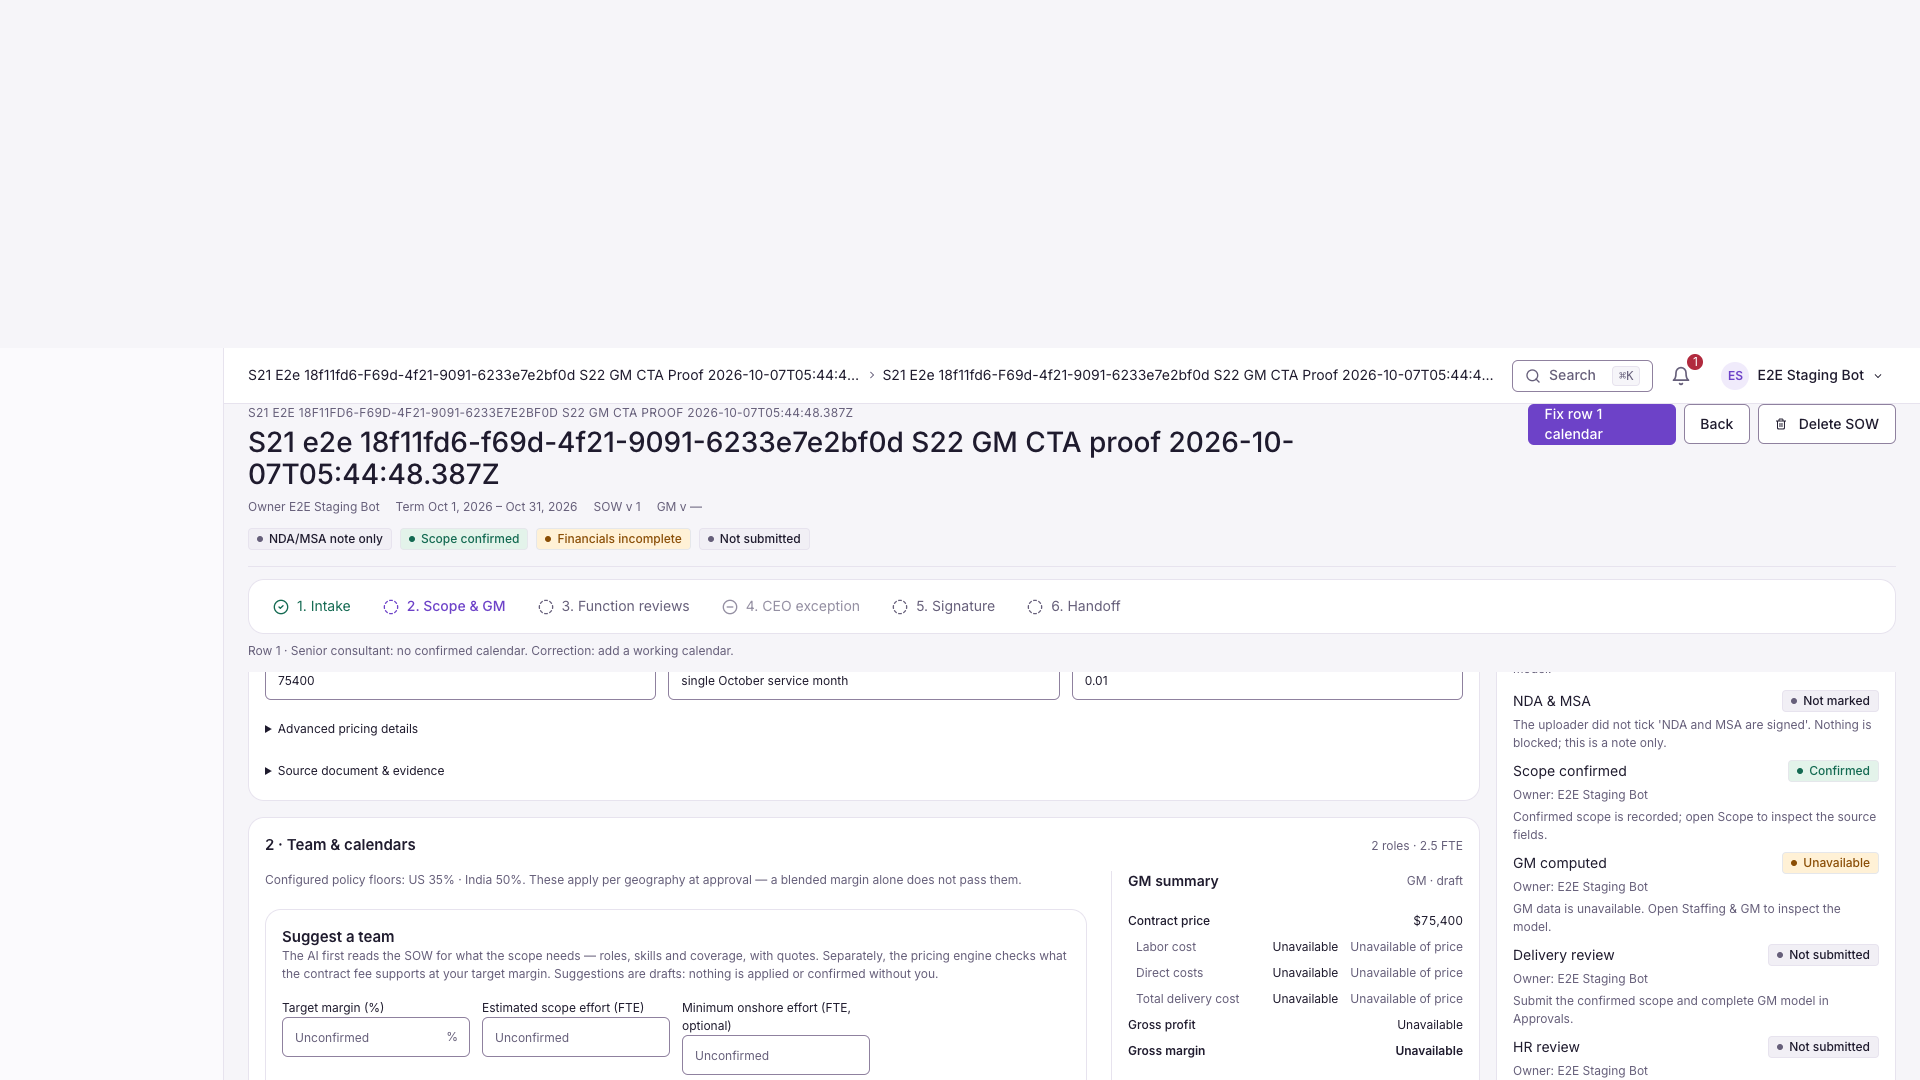
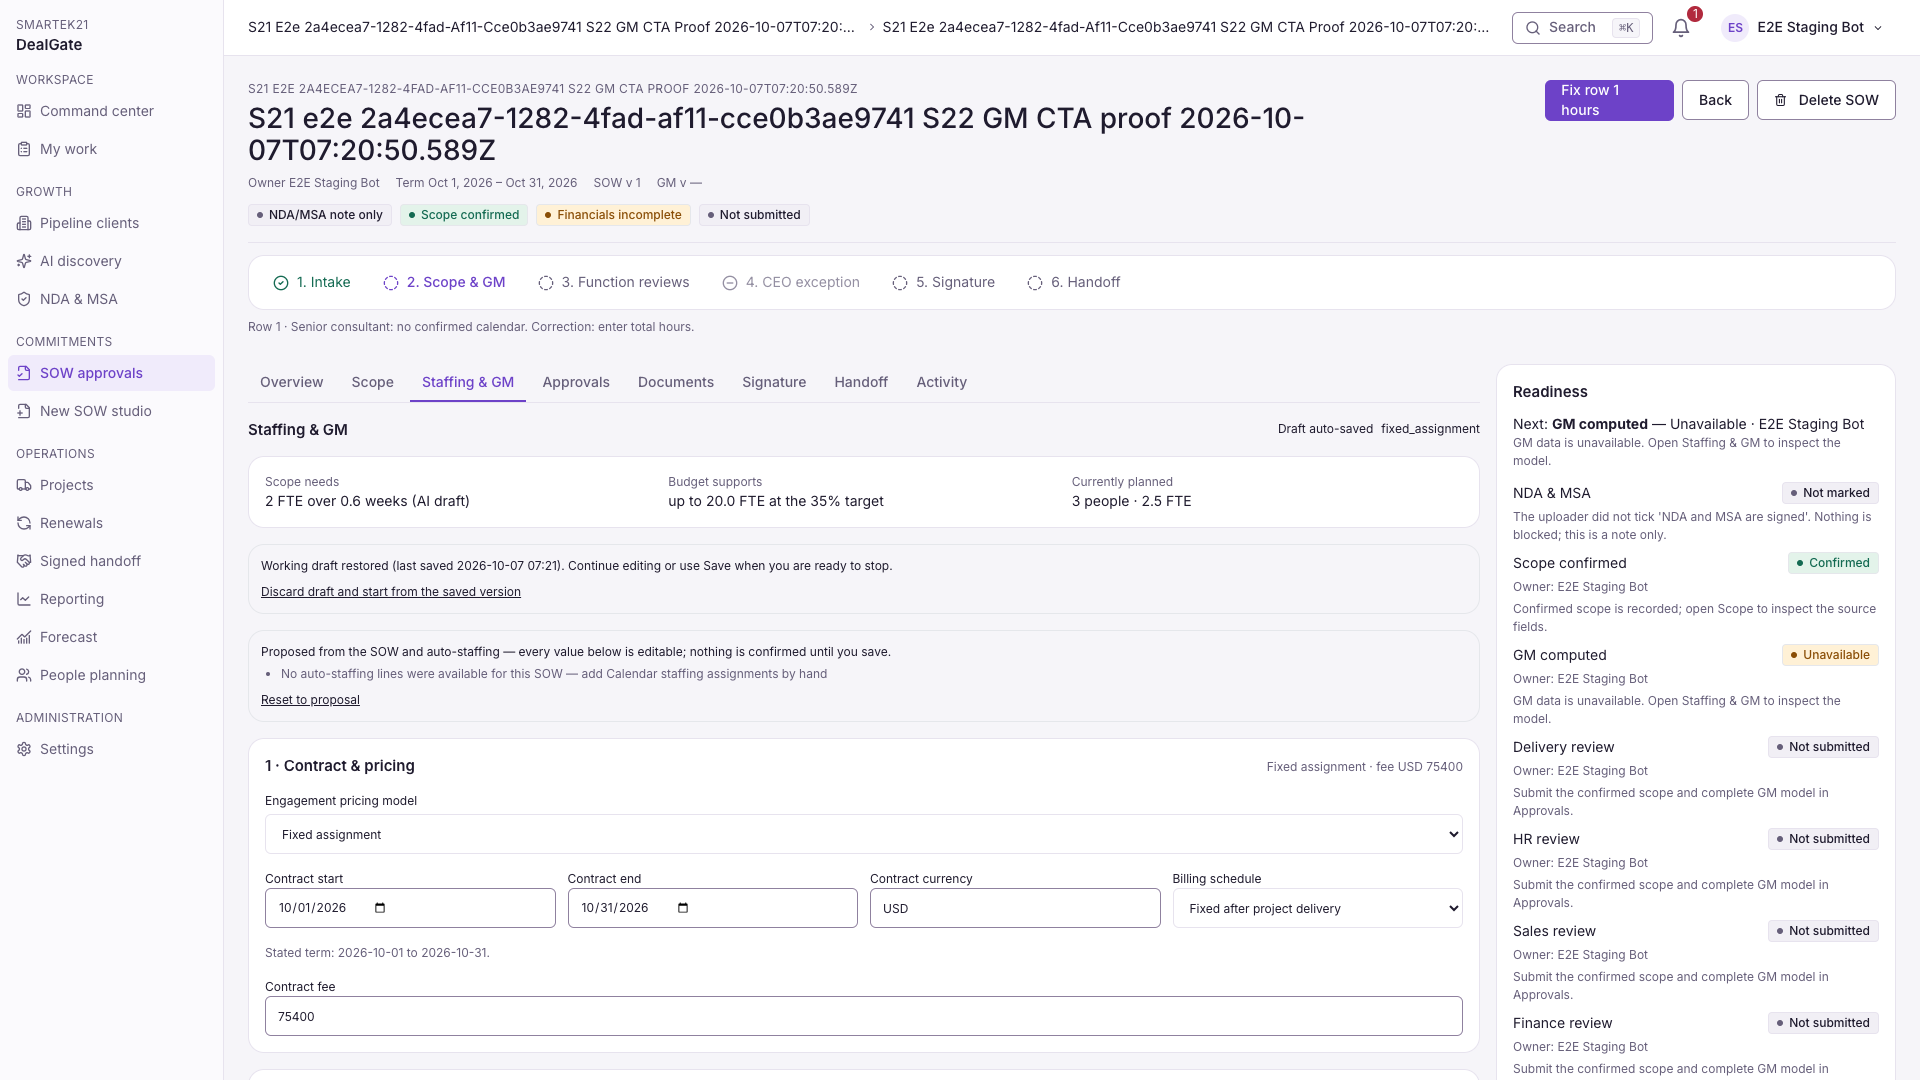
test(s22): prove simplified GM staging workflow

diff --git a/tests/e2e/specs/s21/s22-gm-cta-deployed-proof.spec.ts b/tests/e2e/specs/s21/s22-gm-cta-deployed-proof.spec.ts
@@ -94,23 +94,6 @@ async function deleteAndDrain(api: APIRequestContext, clientId: string) {
   throw new Error(`cleanup job ${body.job_id} did not drain`);
 }
 
-async function fillCalendar(row: import("@playwright/test").Locator, index: number) {
-  await row.getByRole("button", { name: `Add working calendar for row ${index}` }).click();
-  await row.getByLabel("Calendar source ID").fill(`india-standard-${index}`);
-  await row.getByLabel("Calendar version").fill("2026.10");
-  await row.getByLabel("Calendar timezone").fill("America/Los_Angeles");
-  for (const day of ["Monday", "Tuesday", "Wednesday", "Thursday", "Friday"]) {
-    await row.getByLabel(`${day} scheduled hours`).fill("8");
-    await row.getByLabel(`${day} billable hours`).fill("8");
-    await row.getByLabel(`${day} paid hours`).fill("8");
-  }
-  for (const day of ["Saturday", "Sunday"]) {
-    await row.getByLabel(`${day} scheduled hours`).fill("0");
-    await row.getByLabel(`${day} billable hours`).fill("0");
-    await row.getByLabel(`${day} paid hours`).fill("0");
-  }
-}
-
 test("fixed-fee staffing calculates, persists and advances without a CTA loop", async ({ page }) => {
   test.setTimeout(600_000);
   fs.mkdirSync(EVIDENCE, { recursive: true });
@@ -177,12 +160,14 @@ test("fixed-fee staffing calculates, persists and advances without a CTA loop", 
       ...binding,
       assignment_id: id,
       role: name,
+      seniority: name.startsWith("Senior") ? "Senior" : "Consultant",
       location: "India",
       timezone: "America/Los_Angeles",
       currency: "USD",
       quantity,
       allocation,
       calendar: null,
+      hours_billable: null,
       bill_rate: null,
       cost_rate: "30",
       rate_version: null,
@@ -202,8 +187,8 @@ test("fixed-fee staffing calculates, persists and advances without a CTA loop", 
       service_end: "2026-10-31",
       timezone: "America/Los_Angeles",
       currency: "USD",
-      billing_cadence: "invoice on delivery",
-      cost_basis: "loaded delivery cost from the active rate card",
+      billing_cadence: "fixed_post_delivery",
+      cost_basis: null,
       costs_confirmed: true,
       costs: [],
       pricing: {
@@ -212,10 +197,28 @@ test("fixed-fee staffing calculates, persists and advances without a CTA loop", 
         allocation_basis: "single October service month",
         minor_unit: "0.01",
       },
-      staffing: [
-        role("india-senior", "Senior consultant", 2, "1"),
-        role("india-partial", "Consultant", 1, "0.5"),
-      ],
+      staffing: (() => {
+        const legacyCalendar = {
+          calendar_id: "legacy-empty",
+          version: "draft",
+          timezone: "America/Los_Angeles",
+          coverage_start: "2026-10-01",
+          coverage_end: "2026-10-31",
+          week: Array.from({ length: 7 }, () => ({
+            scheduled: "",
+            billable: "",
+            paid: "",
+          })),
+          overrides: [],
+        };
+        return [
+          {
+            ...role("india-senior", "Senior consultant", 2, "1"),
+            calendar: legacyCalendar,
+          },
+          role("india-partial", "Consultant", 1, "0.5"),
+        ];
+      })(),
     };
     await json(
       await api.put(`delivery-model/${opportunityId}/commercial/draft`, {
@@ -230,33 +233,41 @@ test("fixed-fee staffing calculates, persists and advances without a CTA loop", 
     const gm = page.getByRole("region", { name: "GM summary" });
     await expect(gm).toContainText("Contract price");
     await expect(gm).toContainText("$75,400");
-    const blocker = page.getByRole("button", { name: "Fix row 1 calendar" });
+    await expect(page.getByText(/validation errors for PricingComponent/)).toHaveCount(0);
+    await expect(page.getByText("Cost basis", { exact: true })).toHaveCount(0);
+    await expect(page.getByText(/Monthly plan & expenses/)).toHaveCount(0);
+    await expect(page.getByText(/working calendar/i)).toHaveCount(0);
+    const blocker = page.getByRole("button", { name: "Fix row 1 hours" });
     await expect(blocker).toBeVisible({ timeout: 30_000 });
-    await page.getByRole("button", { name: "2 · Team & calendars" }).click();
     await page.screenshot({ path: path.join(EVIDENCE, "01-before-known-revenue-and-row-blocker.png") });
 
     await blocker.click();
-    const row1 = page.locator('[data-staffing-row="1"]');
-    const row2 = page.locator('[data-staffing-row="2"]');
-    await expect(row1.getByRole("button", { name: "Add working calendar for row 1" })).toBeFocused();
-    await fillCalendar(row1, 1);
-    await expect(page.getByRole("button", { name: "Fix row 2 calendar" })).toBeVisible({ timeout: 30_000 });
-    await fillCalendar(row2, 2);
-    await page.getByLabel("Change reason").fill("Connected deployed proof of fixed-fee staffing economics");
+    await expect(page.getByLabel("Hours 1")).toBeFocused();
+    await page.getByLabel("Hours 1").fill("176");
+    await page.getByLabel("Hours 2").fill("176");
+    await page.getByRole("button", { name: "Add cost" }).click();
+    await page.getByLabel("Additional cost description 1").fill("Travel");
+    await page.getByLabel("Additional cost amount 1").fill("2500");
+    await page.getByLabel("Additional cost location 1").selectOption("India");
 
     const expectedRevenue = 75_400;
     const weekdayHours = 22 * 8;
-    const expectedCost = weekdayHours * 30 * (2 + 0.5);
+    const expectedLabor = weekdayHours * 30 * (2 + 0.5);
+    const expectedDirectCost = 2_500;
+    const expectedCost = expectedLabor + expectedDirectCost;
     const expectedProfit = expectedRevenue - expectedCost;
     const expectedGm = expectedProfit / expectedRevenue;
-    expect(expectedCost).toBe(13_200);
-    expect(expectedGm).toBeCloseTo(0.824933687, 8);
+    expect(expectedLabor).toBe(13_200);
+    expect(expectedCost).toBe(15_700);
+    expect(expectedGm).toBeCloseTo(0.791777188, 8);
 
-    const saveAction = page.getByRole("button", { name: "Save financial version" });
+    const saveAction = page.getByRole("button", { name: "Save", exact: true }).first();
     await expect(saveAction).toBeVisible({ timeout: 45_000 });
+    await expect(gm).toContainText(`$${expectedLabor.toLocaleString("en-US")}`);
+    await expect(gm).toContainText(`$${expectedDirectCost.toLocaleString("en-US")}`);
     await expect(gm).toContainText(`$${expectedCost.toLocaleString("en-US")}`);
     await expect(gm).toContainText(`$${expectedProfit.toLocaleString("en-US")}`);
-    await expect(gm).toContainText("82.5%");
+    await expect(gm).toContainText("79.2%");
     await page.screenshot({ path: path.join(EVIDENCE, "02-calculated-financials-save-action.png") });
 
     await saveAction.click();
@@ -264,9 +275,8 @@ test("fixed-fee staffing calculates, persists and advances without a CTA loop", 
     await expect(page.getByRole("button", { name: "Submit for approval" })).toBeVisible({ timeout: 45_000 });
     await page.reload();
     await expect(page.getByRole("button", { name: "Submit for approval" })).toBeVisible({ timeout: 45_000 });
-    await expect(page.getByRole("region", { name: "GM summary" })).toContainText("$13,200");
-    await expect(page.getByRole("region", { name: "GM summary" })).toContainText("82.5%");
-    await page.getByRole("button", { name: "2 · Team & calendars" }).click();
+    await expect(page.getByRole("region", { name: "GM summary" })).toContainText("$15,700");
+    await expect(page.getByRole("region", { name: "GM summary" })).toContainText("79.2%");
     await page.screenshot({ path: path.join(EVIDENCE, "03-save-reload-submit-action.png") });
 
     await page.getByRole("button", { name: "Submit for approval" }).click();

diff --git a/docs/s21/evidence/staging/s22-gm-cta/report.md b/docs/s21/evidence/staging/s22-gm-cta/report.md
@@ -1,18 +1,19 @@
-# S22 Staffing & GM deployed proof
+# S22 simplified Staffing & GM deployed proof
 
-Tested 2026-10-06 PDT against `https://app.dealgateapp.com` from branch
-`fix/s22-gm-cta`, committed application checkpoint
-`9b46d9db0a06f18ea8cac3e1b018512680a6579d` and handoff/deploy checkpoint
-`23001678fd65ec0a9e8ba01e06f0a32fbb9fbf38`.
+Tested 2026-10-07 PDT against `https://app.dealgateapp.com` from branch
+`fix/s22-gm-cta`, application checkpoint
+`e92b4ddfef82d0bc808f3fe524773f8dc874b5f7` and pre-deploy documentation
+checkpoint `60fde64f55e89ff924196fb64ca8afe9a4a5fcbb`.
 
 ## Deployed revisions
 
-- API: ECS task definition `officeapp-dev-api:87`
-- Image: `s22gm-23001678`
-- Digest: `sha256:265feaa8a18192e40dceba21fbf46096515f5abb44c4e7246d70676365f3c243`
-- Frontend: `assets/index-DYV1BgxV.js`
-- CloudFront invalidation: `I9N87XU7RDHU5RX0IG2DPS79L6` (completed)
-- Migration task: `f159f3a9db6e4f55a5f7ef6d898e3747` (succeeded)
+- API: ECS task definition `officeapp-dev-api:88`, rollout completed 1/1
+- Image: `s22simple-e92b4dd`
+- Digest: `sha256:34dc726a5e1e4fd034d74c7513bb3d9d812459a2f1ecce3388880f3bff16a455`
+- Frontend: `assets/index-BPgaqF0W.js`, CSS `assets/index-CGMBFthR.css`
+- CloudFront invalidation: `I23X1YLBST202823ESU3DXJ0F5` (completed)
+- Migration task: `e2518e23e4794eeeafb7aea0d051e255` (succeeded)
+- Deploy smoke: `smoke 20261007T071522Z` (green; cleanup gate clean)
 
 ## Connected proof
 
@@ -23,33 +24,42 @@ cd /Users/srikanthparimi/OfficeApp/dealgate-s22-gm-cta/tests/e2e
 env AWS_PROFILE=lm-arbiter-poc AWS_PROFILE_STAGING=lm-arbiter-poc \
   AWS_REGION=us-east-2 E2E_BASE_URL=https://app.dealgateapp.com \
   npx playwright test specs/s21/s22-gm-cta-deployed-proof.spec.ts \
-  --project=chromium --reporter=line
+  --project=chromium
 ```
 
-Result: **1 passed** in 2.7 minutes. The fresh browser used a server-issued
+Result: **1 passed in 2.6 minutes**. The fresh browser used a server-issued
 fixture and six real Cognito identities. It exercised the deployed SPA, API,
-RDS commercial draft/version storage, authoritative Decimal calculation and
-approval state machine; no feature response was mocked.
+RDS draft/version storage, authoritative Decimal calculation and approval
+state machine; no feature response was mocked.
 
-Independent expectation for October 2026: 22 weekdays x 8 paid hours x
-USD 30/hour x (2 full allocations + 1 half allocation) = USD 13,200 labor
-cost. Against the fixed fee of USD 75,400, gross profit is USD 62,200 and GM
-is 82.4933687%. The deployed UI returned USD 75,400 revenue, USD 13,200 cost,
-USD 62,200 gross profit and 82.5% displayed GM. Hourly client billing rates
-were deliberately null: fixed-fee revenue came from the contract fee.
+The fixture deliberately contained the reported legacy failure shape: row 1
+had a seven-day calendar shell with all 21 scheduled/billable/paid values set
+to empty strings. The deployed editor discarded that unusable shell before
+preview. It displayed the compact staffing table and one actionable
+`Fix row 1 hours` CTA; it did not expose a Pydantic validation dump, calendar
+editor, Cost basis, Monthly plan or Review & save section.
+
+Independent expectation: each row had 176 per-person hours at USD 30/hour.
+Row 1 had two people at 100% allocation and row 2 had one person at 50%, so
+labor cost is `176 x 30 x (2 + 0.5) = USD 13,200`. A USD 2,500 Travel cost
+makes total delivery cost USD 15,700. Against the USD 75,400 fixed fee, gross
+profit is USD 59,700 and GM is 79.1777188%. The deployed UI displayed USD
+75,400 revenue, USD 13,200 labor, USD 2,500 direct costs, USD 15,700 total
+cost, USD 59,700 gross profit and 79.2% GM. Hourly client bill rates remained
+absent; fixed-fee revenue came from the contract fee.
 
 The sequence proved:
 
-1. An incomplete draft showed known contract revenue and named the exact row
-   and field (`Fix row 1 calendar`) rather than generic `Unavailable`.
-2. The CTA focused the missing calendar control. Completing both versioned
-   calendars produced the independently expected calculation.
-3. `Save financial version` persisted the commercial model. A full page
-   reload retained the same costs/GM and changed the CTA to
-   `Submit for approval`.
-4. Confirming the real reviewer plan persisted `pending_delivery_hr`, changed
-   the CTA to `View review status`, and refreshed the readiness panel.
-5. Teardown deleted the fixture. `scripts/check-test-data-clean.sh` reported
+1. The empty legacy calendar became one precise row-level Hours blocker.
+2. The workspace CTA focused `Hours 1` instead of navigating back to the same
+   screen.
+3. Entering both Hours values and the additional cost produced the independent
+   financial expectation through the server calculation service.
+4. The primary action changed to `Save`; saving and fully reloading preserved
+   the commercial version and changed the action to `Submit for approval`.
+5. Confirming the real reviewer plan persisted the review state and changed
+   the action to `View review status`.
+6. Teardown deleted the fixture; `scripts/check-test-data-clean.sh` reported
    zero test clients and zero e2e approvers on real SOWs.
 
 ## Screenshots
@@ -59,20 +69,19 @@ The sequence proved:
 - `03-save-reload-submit-action.png`
 - `04-transition-persisted-review-status.png`
 
-## Original record (read-only)
+## Original record
 
-Opportunity `bbefb2b0-90fc-4a7c-8995-bbe637b44654` was never mutated. A
-post-deploy preview of its existing draft returned known revenue USD 75,400
-while cost-derived values stayed null. Its current first blockers are the
-missing billing schedule, loaded-cost basis and human cost confirmation. Once
-those are supplied, row-specific calendar/rate blockers are surfaced in order.
+Opportunity `bbefb2b0-90fc-4a7c-8995-bbe637b44654` remained read-only. The
+deployed proof used an isolated equivalent fixture for every mutation.
 
-## Failed-attempt history
+## Diagnostic history
 
-- Attempt 1 never created a fixture: the auth helper expected an obsolete
-  flat secret shape. The deployed secret uses shared metadata plus nested
-  `roles`; the helper now supports both without logging secret values.
-- Attempt 2 reached the correct deployed state but the proof locator expected
-  `Fix row 1 working calendar`; the actual accessible label is
-  `Fix row 1 calendar`. The screenshot showed the behavior was correct, so
-  only the test locator changed before the successful run.
+- The 2026-10-06 proof covered the older full-calendar workflow on API
+  revision 87 and is superseded by this report and the refreshed screenshots.
+- Before the compatibility fix, the new focused regression reproduced the
+  defect: preview received the legacy calendar with 21 blank decimal strings.
+  After `e92b4dd`, the same regression passed with `calendar:null` and a simple
+  missing-Hours state.
+- The first image-build command used `api/` as context and failed before push
+  because the Dockerfile copies root-relative `api/` and `worker/` paths. The
+  corrected `-f api/Dockerfile .` build produced the deployed image above.

diff --git a/docs/s21/claude-handoff.md b/docs/s21/claude-handoff.md
@@ -2,6 +2,50 @@
 
 ## RESUME HERE
 
+**2026-10-07 00:24 PDT — SIMPLIFIED STAFFING & GM DEPLOYED PROOF GREEN;
+PRODUCT-OWNER ACCEPTANCE NEXT.** Authoritative tree is
+`/Users/srikanthparimi/OfficeApp/dealgate-s22-gm-cta`, branch
+`fix/s22-gm-cta`, pushed pre-proof head
+`60fde64f55e89ff924196fb64ca8afe9a4a5fcbb`, with deployed application
+checkpoint `e92b4ddfef82d0bc808f3fe524773f8dc874b5f7`. The refreshed proof spec,
+report and four screenshots listed below are the only owned changes awaiting
+the final evidence commit. Main remains
+`3ef55e576508af70e5c34d8593eec09db1d01560` and is untouched.
+
+The approved Terraform plan applied exactly **11 add, 13 change, 11 destroy**.
+Migration task `e2518e23e4794eeeafb7aea0d051e255` succeeded. Staging API is
+rollout-complete on ECS task definition `officeapp-dev-api:88`, image
+`s22simple-e92b4dd`, running digest
+`sha256:34dc726a5e1e4fd034d74c7513bb3d9d812459a2f1ecce3388880f3bff16a455`.
+Deploy smoke `smoke 20261007T071522Z` passed on that exact task/digest and its
+cleanup gate was clean. The matching SPA is live as
+`assets/index-BPgaqF0W.js` and `assets/index-CGMBFthR.css`; CloudFront
+invalidation `I23X1YLBST202823ESU3DXJ0F5` completed and `/api/healthz`
+returned 200.
+
+Fresh-session connected proof is **1 passed in 2.6 minutes**. Its disposable
+draft deliberately carried the user's failing legacy shape: 21 empty decimal
+strings in the seven-day calendar. The deployed page discarded the unusable
+calendar shell, displayed one `Fix row 1 hours` action, focused Hours 1, and
+never exposed a Pydantic validation dump. Two compact staffing rows (two people
+at 100%, one at 50%, 176 hours each, USD 30/hour) plus a USD 2,500 Travel cost
+produced the independent expectation: USD 75,400 revenue, USD 13,200 labor,
+USD 2,500 direct costs, USD 15,700 total cost, USD 59,700 gross profit and
+79.2% displayed GM. Save persisted GM v1 across a full reload; the workspace
+action became Submit for approval, the real reviewer plan submitted, and the
+action became View review status. Final teardown gate: zero test clients and
+zero e2e approvers on real SOWs.
+
+Current evidence is
+`docs/s21/evidence/staging/s22-gm-cta/report.md` and its four linked PNGs.
+Opportunity `bbefb2b0-90fc-4a7c-8995-bbe637b44654` remained read-only. The
+full e2e typecheck still reports only four historical errors in numeric specs
+22/23/24; the updated deployed-proof spec has no type error. No deployment,
+migration, test, browser or server process is active. Exact next command:
+`cd /Users/srikanthparimi/OfficeApp/dealgate-s22-gm-cta && git status --short && git diff --check`,
+then validate and commit only the proof spec/report/screenshots plus this
+handoff. Stop for product-owner staging acceptance; do not merge main.
+
 **2026-10-07 00:06 PDT — LIVE/LOCAL MISMATCH CONFIRMED; LEGACY EMPTY-CALENDAR
 COMPATIBILITY FIX GREEN, NEW DEPLOYMENT ARTIFACT REQUIRED.** Authoritative tree
 is `/Users/srikanthparimi/OfficeApp/dealgate-s22-gm-cta`, branch
